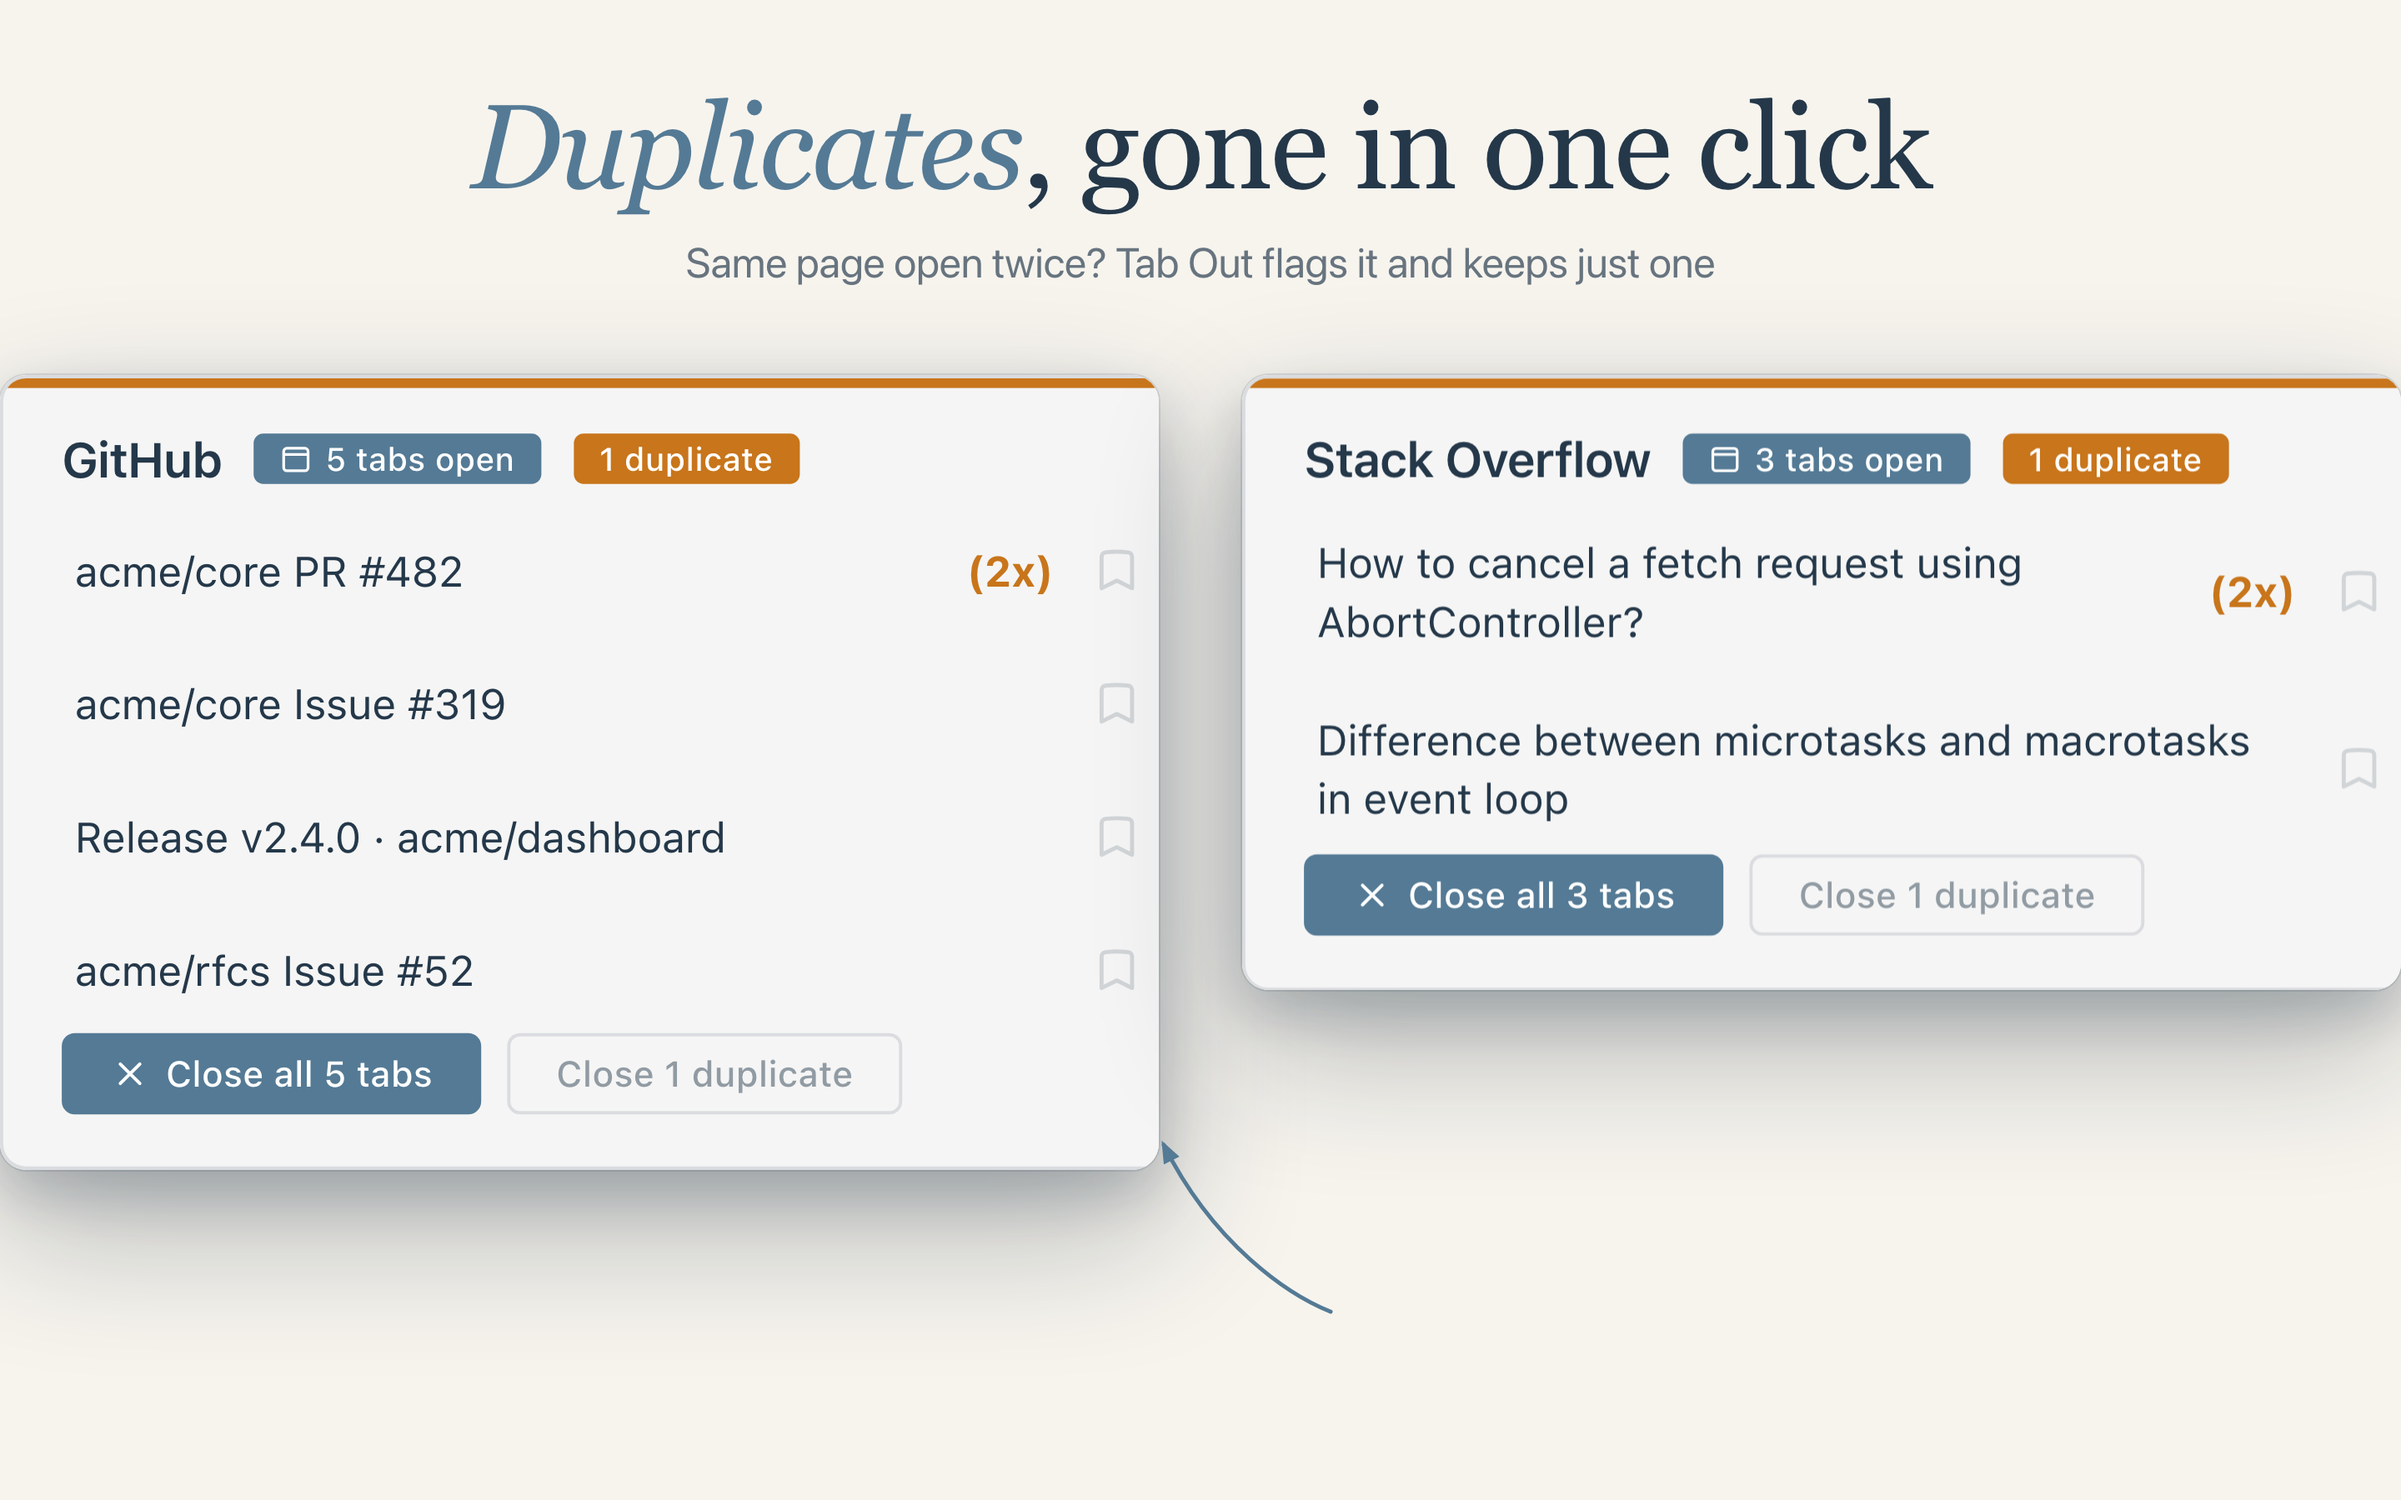
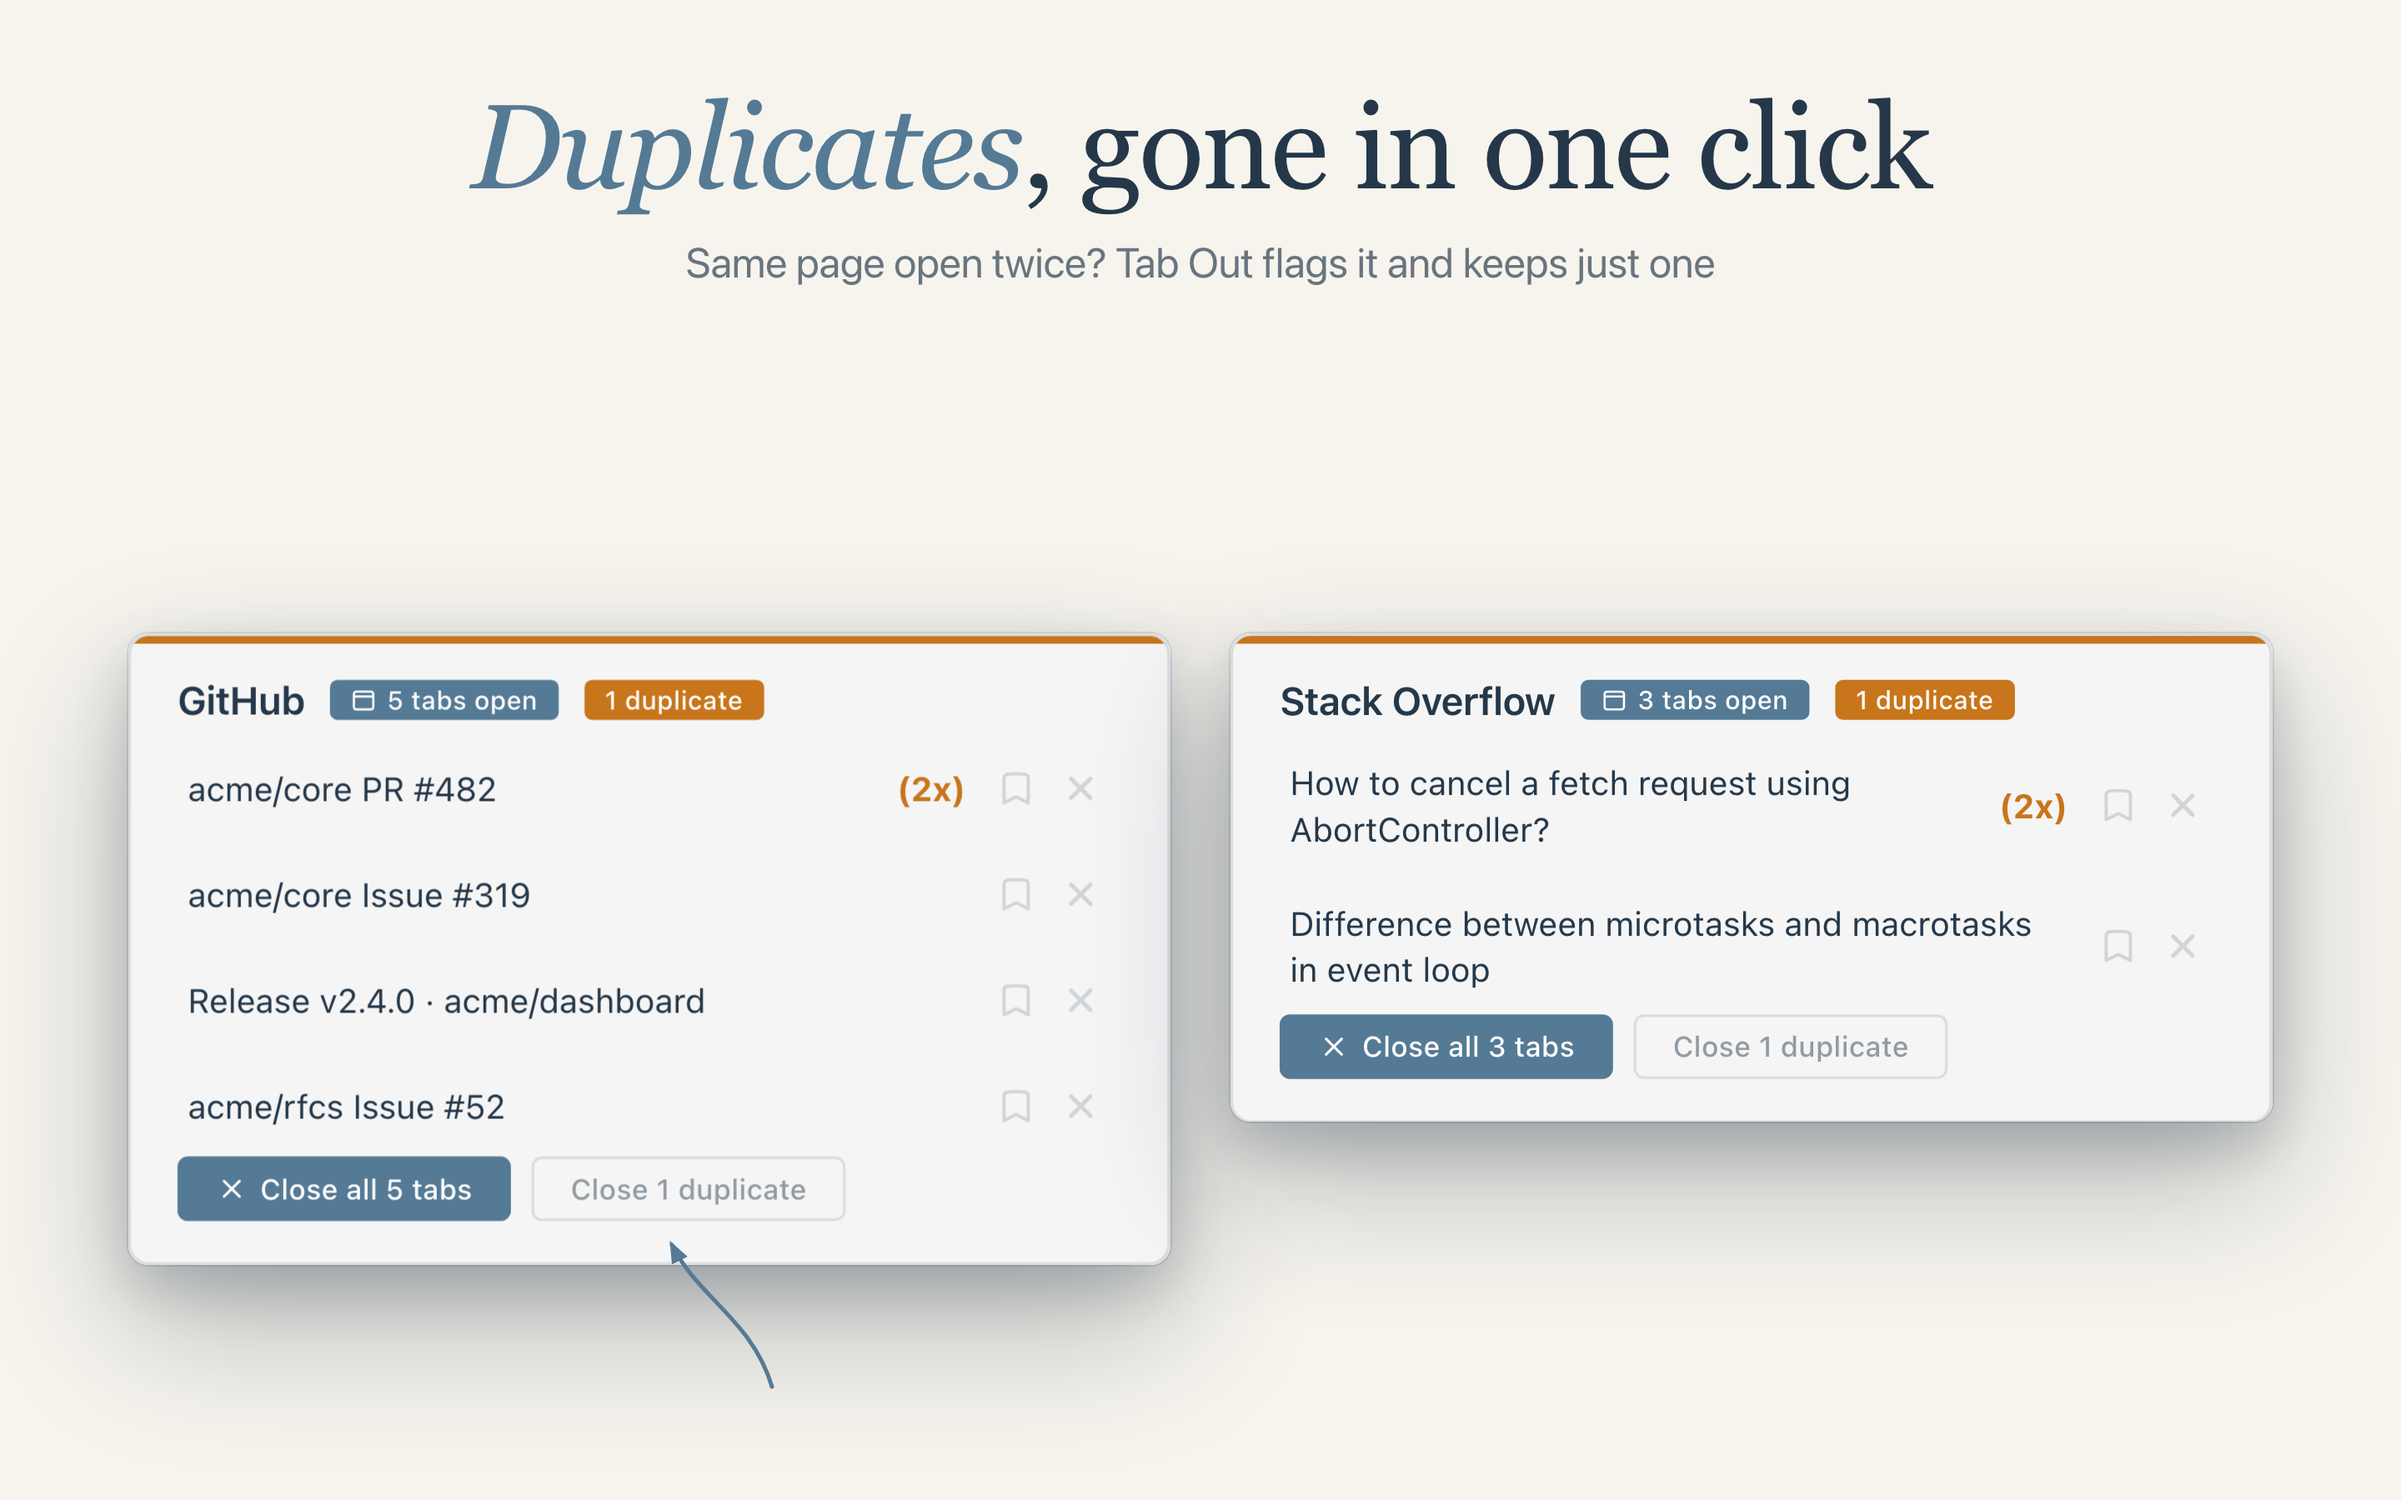
hzz(screens-v2-fix): Fix three pages of the Mac App Store screenshots in appstore

Changed region(s): [[0.0, 0.2489, 1.0, 0.9022], [0.375, 0.4978, 0.4062, 0.56], [0.8438, 0.5289, 0.875, 0.56]]

diff --git a/appstore/screenshots/compose.html b/appstore/screenshots/compose.html
@@ -340,13 +340,13 @@
     }
     .shot-03-container .cards-row {
       position: absolute;
-      top: 225px;
+      top: 380px;
       left: 0;
       width: 100%;
       display: flex;
       justify-content: center;
       align-items: flex-start;
-      gap: 50px;
+      gap: 36px;
       z-index: 5;
     }
     .shot-03-container .lifted-card-wrapper {
@@ -369,22 +369,22 @@
     }
     .shot-04-container .window-frame {
       position: absolute;
-      left: -140px;
+      left: -160px;
       top: 50px;
-      width: 940px;
+      width: 920px;
       height: 800px;
       z-index: 2;
     }
     .shot-04-container .header-block {
       position: absolute;
-      right: 60px;
-      top: 130px;
-      width: 440px;
+      left: 960px;
+      top: 140px;
+      width: 420px;
       z-index: 10;
     }
     #lifted-04-sidebar {
-      left: 420px;
-      top: 260px;
+      left: 410px;
+      top: 240px;
       z-index: 25;
     }
 
@@ -411,6 +411,11 @@
       width: 1300px;
       height: 680px;
       z-index: 2;
+    }
+    #lifted-05-github {
+      left: 720px;
+      top: 310px;
+      z-index: 25;
     }
   </style>
 </head>
@@ -476,7 +481,10 @@
     }
 
     // Helper: Clip iframe to element
-    function clipToElement(wrapper, iframe, selector, scale, onDone) {
+    function clipToElement(wrapper, iframe, selector, scale, onDone, targetWidth) {
+      if (targetWidth) {
+        iframe.style.width = targetWidth + 'px';
+      }
       let attempts = 0;
       function attempt() {
         attempts++;
@@ -493,7 +501,7 @@
                 wrapper.style.height = h + 'px';
                 wrapper.style.borderRadius = Math.round(8 * scale) + 'px';
 
-                const docW = Math.max(doc.documentElement.scrollWidth, 1200);
+                const docW = targetWidth || Math.max(doc.documentElement.scrollWidth, 1200);
                 const docH = Math.max(doc.documentElement.scrollHeight, 800);
                 iframe.style.position = 'absolute';
                 iframe.style.left = '0';
@@ -566,18 +574,13 @@
             </div>
           </div>
           <!-- Thin slate hand-drawn style arrow pointing at Close 1 duplicate button -->
-          <svg class="arrow-svg" id="arrowSvg" width="160" height="130" viewBox="0 0 160 130" style="display:none">
+          <svg class="arrow-svg" id="arrowSvg" viewBox="0 0 1440 900" style="position: absolute; left: 0; top: 0; width: 1440px; height: 900px; pointer-events: none; z-index: 30; display: none;">
             <defs>
               <marker id="arrowhead" viewBox="0 0 10 10" refX="7" refY="5" markerWidth="6" markerHeight="6" orient="auto">
                 <path d="M 0 1.5 L 9 5 L 0 8.5 z" fill="#547a95"/>
               </marker>
             </defs>
-            <path d="M 120 115 C 95 105, 50 75, 20 15"
-                  fill="none"
-                  stroke="#547a95"
-                  stroke-width="2.5"
-                  stroke-linecap="round"
-                  marker-end="url(#arrowhead)"/>
+            <path id="arrowPath" d="" fill="none" stroke="#547a95" stroke-width="2.5" stroke-linecap="round" marker-end="url(#arrowhead)"/>
           </svg>
         </div>
       `;
@@ -587,16 +590,51 @@
       const wrapperSo = document.getElementById('lifted-03-stackoverflow');
       const iframeSo = document.getElementById('frame03Stackoverflow');
       const arrowSvg = document.getElementById('arrowSvg');
+      const arrowPath = document.getElementById('arrowPath');
 
-      clipToElement(wrapperGh, iframeGh, '.mission-card[data-domain-id="domain-github-com"]', 1.95, (rect, w, h) => {
-        // Point arrow directly at GitHub card's "Close 1 duplicate" button
-        const ghBox = wrapperGh.getBoundingClientRect();
-        arrowSvg.style.display = 'block';
-        arrowSvg.style.left = (ghBox.left + w - 260) + 'px';
-        arrowSvg.style.top = (ghBox.top + h - 30) + 'px';
+      function positionArrow(cardRect, w, h) {
+        try {
+          const doc = iframeGh.contentDocument;
+          if (!doc) return;
+          const btn = doc.querySelector('.mission-card[data-domain-id="domain-github-com"] button[data-action="dedup-keep-one"]');
+          if (!btn) {
+            arrowSvg.style.display = 'none';
+            return;
+          }
+          const btnRect = btn.getBoundingClientRect();
+          const ghBox = wrapperGh.getBoundingClientRect();
+          const scale = 1.55;
+
+          // Target is centered on the button, 14px (28 canvas px) below bottom edge
+          const btnCenterX = ghBox.left + (btnRect.left + btnRect.width / 2 - cardRect.left) * scale;
+          const btnBottomY = ghBox.top + (btnRect.bottom - cardRect.top) * scale;
+
+          const targetX = Math.round(btnCenterX - 10);
+          const targetY = Math.round(btnBottomY + 14);
+
+          // Start from empty space below the cards
+          const startX = Math.round(targetX + 60);
+          const startY = Math.round(targetY + 85);
+
+          // Smooth curve curving up into the target
+          const cp1X = Math.round(startX - 12);
+          const cp1Y = Math.round(startY - 40);
+          const cp2X = Math.round(targetX + 16);
+          const cp2Y = Math.round(targetY + 32);
+
+          arrowPath.setAttribute('d', `M ${startX} ${startY} C ${cp1X} ${cp1Y}, ${cp2X} ${cp2Y}, ${targetX} ${targetY}`);
+          arrowSvg.style.display = 'block';
+        } catch (e) {
+          console.warn('Arrow error:', e);
+          arrowSvg.style.display = 'none';
+        }
+      }
+
+      clipToElement(wrapperGh, iframeGh, '.mission-card[data-domain-id="domain-github-com"]', 1.55, (rect, w, h) => {
+        positionArrow(rect, w, h);
       });
 
-      clipToElement(wrapperSo, iframeSo, '.mission-card[data-domain-id="domain-stackoverflow-com"]', 1.95);
+      clipToElement(wrapperSo, iframeSo, '.mission-card[data-domain-id="domain-stackoverflow-com"]', 1.55);
 
     } else if (shot === '04-saved') {
       root.innerHTML = `
@@ -614,7 +652,7 @@
 
       const wrapper = document.getElementById('lifted-04-sidebar');
       const iframe = document.getElementById('frame04Sidebar');
-      clipToElement(wrapper, iframe, '#deferredColumn', 1.7);
+      clipToElement(wrapper, iframe, '#deferredColumn', 1.6);
 
     } else if (shot === '05-private') {
       root.innerHTML = `
@@ -624,8 +662,15 @@
             <p class="subhead">${config.subhead}</p>
           </div>
           ${buildWindow('frame05', 'harness.html?shot=05-private')}
+          <div class="lifted-card-wrapper" id="lifted-05-github">
+            <iframe id="frame05Lifted" src="harness.html?shot=05-private&lift=card"></iframe>
+          </div>
         </div>
       `;
+
+      const wrapper = document.getElementById('lifted-05-github');
+      const iframe = document.getElementById('frame05Lifted');
+      clipToElement(wrapper, iframe, '.mission-card[data-domain-id="domain-github-com"]', 2.0, null, 1300);
     }
   </script>
 </body>

diff --git a/appstore/screenshots/harness.html b/appstore/screenshots/harness.html
@@ -182,7 +182,7 @@
       border: 1px solid rgba(36, 56, 74, 0.12) !important;
       padding: 20px 22px !important;
       box-shadow: none !important;
-      width: 320px !important;
+      width: 290px !important;
       position: static !important;
       max-height: none !important;
     }
@@ -327,11 +327,11 @@
         }
         setTimeout(function() {
           closeBtn.click();
-          // Let confetti burst progress for 300ms into the burst, then freeze
+          // Let confetti burst progress for 150ms into the burst, then freeze
           setTimeout(function() {
             rafActive = false; // Freeze all confetti rAF loops mid-burst
             notifyParent();
-          }, 300);
+          }, 150);
         }, 60);
         return;
       }
